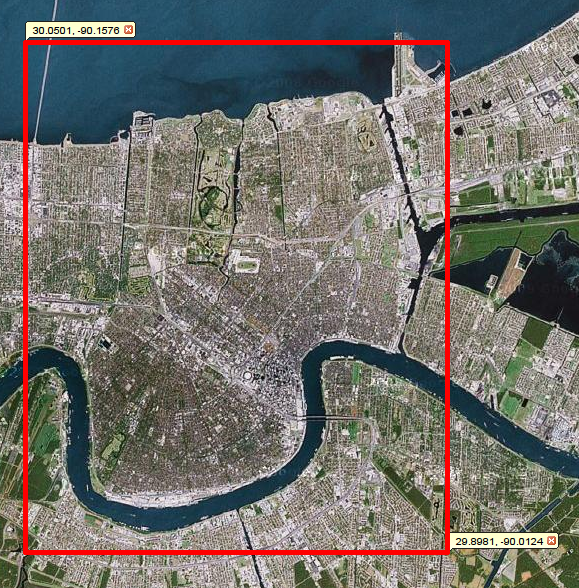
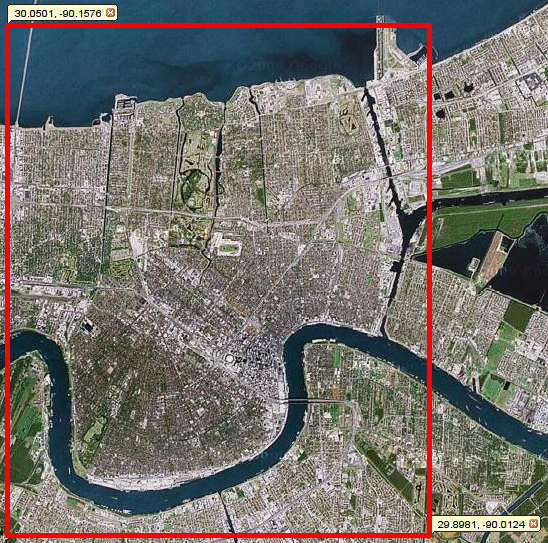
Estética cap6

diff --git a/capitulo6/cap6.tex b/capitulo6/cap6.tex
@@ -59,13 +59,13 @@ siguientes imágenes muestran las áreas de cada uno de dichos escenarios.
 
 \begin{figure}[H]
  \centering
- \includegraphics[width=135mm]{figuras/cap6/NOarea3.png}
+ \includegraphics[width=125mm]{figuras/cap6/NOarea3.png}
  \caption{Zona 2 de simulación} \label{zona2}
 \end{figure}
 
 \begin{figure}[H]
  \centering
- \includegraphics[width=135mm]{figuras/cap6/NOarea4.png}
+ \includegraphics[width=130mm]{figuras/cap6/NOarea4.png}
  \caption{Zona 3 de simulación} \label{zona3}
 \end{figure}
 
@@ -123,26 +123,32 @@ que aparezca en uno de estos punto oscila entre 1 y 7.
 
 \begin{figure}[H]
  \centering
- \includegraphics[height=90mm,angle=90]{figuras/cap6/population.png}
+ \includegraphics[width=115mm]{figuras/cap6/population.png}
  \caption{Distribución de la población 1}
 \end{figure}
 
 \begin{figure}[H]
  \centering
- \includegraphics[height=90mm,angle=90]{figuras/cap6/population1.png}
+ \includegraphics[width=55mm]{figuras/cap6/populationb.png}
  \caption{Distribución de la población 2}
 \end{figure}
 
 \begin{figure}[H]
  \centering
- \includegraphics[width=120mm]{figuras/cap6/population2.png}
+ \includegraphics[height=90mm,angle=90]{figuras/cap6/population1.png}
  \caption{Distribución de la población 3}
 \end{figure}
 
 \begin{figure}[H]
  \centering
- \includegraphics[width=105mm]{figuras/cap6/population3.png}
+ \includegraphics[width=120mm]{figuras/cap6/population2.png}
  \caption{Distribución de la población 4}
+\end{figure}
+
+\begin{figure}[H]
+ \centering
+ \includegraphics[width=105mm]{figuras/cap6/population3.png}
+ \caption{Distribución de la población 5}
 \end{figure}
 
 \subsection{Refugios y Rutas de Evacuación}
@@ -282,7 +288,7 @@ la captura.
 
 \begin{figure}[H]
  \centering
- \includegraphics[height=130mm,angle=90]{figuras/cap6/resultados/interfaz.png}
+ \includegraphics[height=110mm,angle=90]{figuras/cap6/resultados/interfaz.png}
  \caption{Interfaz de Google Earth}
 \end{figure}
 
@@ -337,7 +343,7 @@ Aparecen resaltados en negro los peatones, y en rojo el agua de la inundación.
 
 \begin{figure}[H]
  \centering
- \includegraphics[height=115mm,angle=90]{figuras/cap6/resultados/katrina1.png}
+ \includegraphics[height=100mm,angle=90]{figuras/cap6/resultados/katrina1.png}
  \caption{Inundación de la \hyperref[zona1]{zona 1}}
 \end{figure}
 
